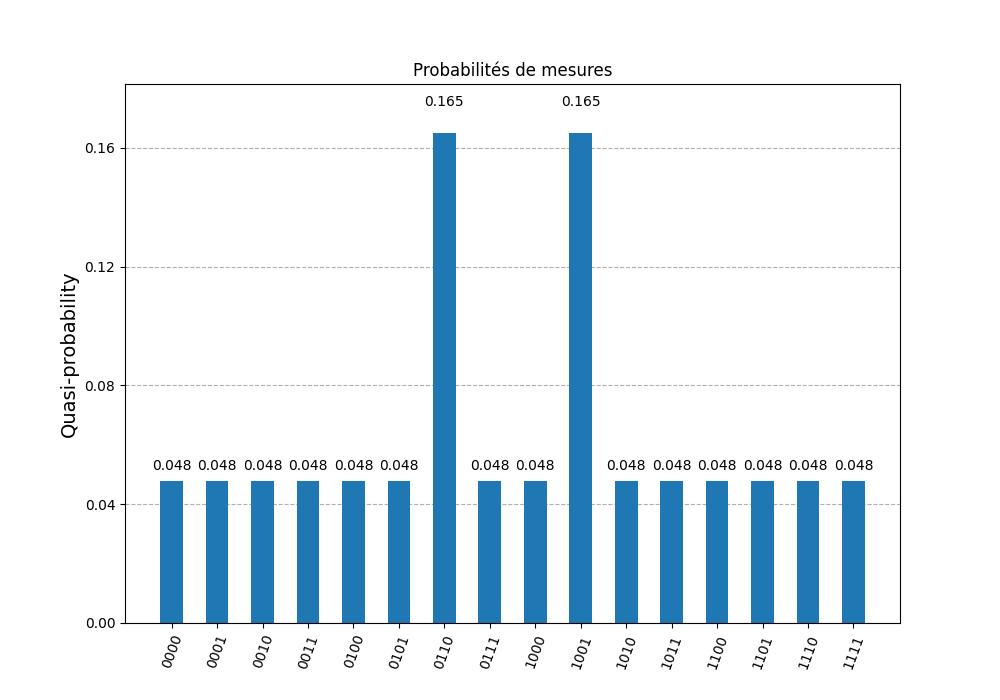
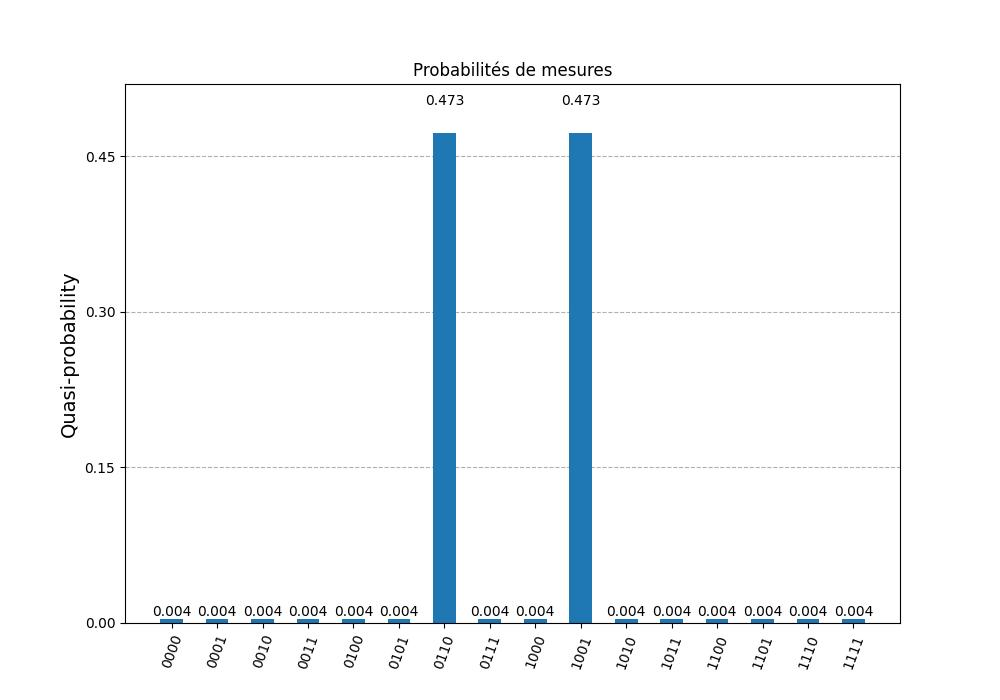
fixed bunch of stuff

diff --git a/sudoku_nxn.py b/sudoku_nxn.py
@@ -30,27 +30,29 @@ def draw_histogram(qc: QuantumCircuit, file_name):
     plot_histogram(probabilites, figsize=(10,7), title="Probabilités de mesures", filename=output_path)
     print("Un histogramme illustrant les probabilités de résultat à été généré à ", output_path)
 
-def calculer_prob_succes(k, theta):
-    prob_succes = np.abs(np.sin((2*k+1)*theta))**2
-    print(f"La probabilité de succès est de {prob_succes*100}%")
+def calculer_prob_succes(m, theta):
+    prob_succes = np.abs(np.sin((2*m+1)*theta))**2
+    print(f"La probabilité de succès est de {prob_succes:.4%}")
 
-def find_optimal_n_iterations(n):
+def find_optimal_n_iterations(n, m):
     # nous avons un sudoku nxn
     print(f"Pour un sudoku n={n} ({n}x{n})")
     
-    nbre_grilles_possibles = n**(n*n)
-    print(f"Il y a N={nbre_grilles_possibles} combinaisons possibles")
+    N = 2**(n*n)
+    print(f"Le nombre de combinaisons possibles est N={N}")
 
-    theta = np.arcsin(1/np.sqrt(nbre_grilles_possibles))
-    print(f"Nous avons un theta = {theta} rad")
+    print(f"Le nombre de solutions possibles est m={m}")
 
-    # On isole k dans la formule (2k+1)*theta = pi/2
-    k = (np.pi-2*theta)/(4*theta)
-    nbre_iterations = int(np.round(k))
+    theta = np.arcsin(np.sqrt(m/N))
+    print(f"Nous avons un theta={theta:.4}rad")
+
+    # pour trouver le nombre d'itérations k, on isole k dans (2k+1)*theta=pi/2
+    k = ((np.pi/2)-theta)/(2*theta)
     print(f"Ce qui nous donne un k={k}")
-    print(f"On arrondi k pour donner le nombre d'itérations = {nbre_iterations}")
+    k = int(np.round(k))
+    print(f"On arrondi k pour donner le nombre d'itérations k={k}")
 
-    return (nbre_iterations, k, theta)
+    return (k, theta)
 
 
 def compter_cnot(qc : QuantumCircuit):

diff --git a/sudoku_2x2.py b/sudoku_2x2.py
@@ -66,8 +66,8 @@ def grover(num_iterations) -> QuantumCircuit:
     qc.measure(v_qubits, measures)
     return qc
 
-num_iterations, k, theta = find_optimal_n_iterations(n=2)
-qc : QuantumCircuit = grover(num_iterations)
+k, theta = find_optimal_n_iterations(n=2, m=2)
+qc : QuantumCircuit = grover(k)
 calculer_prob_succes(k, theta)
 compter_cnot(qc)
 draw_circuit(qc, "circuit_grover_sudoku2x2.jpg")

diff --git a/sudoku_3x3.py b/sudoku_3x3.py
@@ -62,8 +62,8 @@ def grover(num_iterations) -> QuantumCircuit:
     qc.measure(v_qubits, measures)
     return qc
 
-num_iterations, k, theta = find_optimal_n_iterations(n=3)
-qc : QuantumCircuit = grover(num_iterations)
+k, theta = find_optimal_n_iterations(n=3, m=6)
+qc : QuantumCircuit = grover(k)
 calculer_prob_succes(k, theta)
 compter_cnot(qc)
 draw_circuit(qc, "circuit_grover_sudoku3x3.jpg")

diff --git a/rapport/q2b.md b/rapport/q2b.md
@@ -1,0 +1,144 @@
+<!-- Question 2 -->
+
+<!-- (b) Combien y a-t-il de solutions possibles ? -->
+
+Soit un sudoku binaire 3x3:
+<table>
+  <tr>
+    <td style="border: 1px solid #000; padding: 8px;">x<sub>0</sub></td>
+    <td style="border: 1px solid #000; padding: 8px;">x<sub>1</sub></td>
+    <td style="border: 1px solid #000; padding: 8px;">x<sub>2</sub></td>
+  </tr>
+  <tr>
+    <td style="border: 1px solid #000; padding: 8px;">x<sub>3</sub></td>
+    <td style="border: 1px solid #000; padding: 8px;">x<sub>4</sub></td>
+    <td style="border: 1px solid #000; padding: 8px;">x<sub>5</sub></td>
+  </tr>
+  <tr>
+    <td style="border: 1px solid #000; padding: 8px;">x<sub>6</sub></td>
+    <td style="border: 1px solid #000; padding: 8px;">x<sub>7</sub></td>
+    <td style="border: 1px solid #000; padding: 8px;">x<sub>8</sub></td>
+  </tr>
+</table>
+
+Il y a une contrainte par ligne<br>
+Il y a une contrainte par colonne<br>
+Il y a donc 6 contraintes<br>
+
+Voici les 6 solutions possibles:
+
+<div style="display:flex; justify-content: space-between;">
+  <table>
+    <tr>
+      <td style="border: 1px solid #000; padding: 8px;">1</td>
+      <td style="border: 1px solid #000; padding: 8px;">0</td>
+      <td style="border: 1px solid #000; padding: 8px;">0</td>
+    </tr>
+    <tr>
+      <td style="border: 1px solid #000; padding: 8px;">0</td>
+      <td style="border: 1px solid #000; padding: 8px;">1</td>
+      <td style="border: 1px solid #000; padding: 8px;">0</td>
+    </tr>
+    <tr>
+      <td style="border: 1px solid #000; padding: 8px;">0</td>
+      <td style="border: 1px solid #000; padding: 8px;">0</td>
+      <td style="border: 1px solid #000; padding: 8px;">1</td>
+    </tr>
+    <tr><td colspan="3">|100010001></td></tr>
+  </table>
+
+  <table>
+    <tr>
+      <td style="border: 1px solid #000; padding: 8px;">1</td>
+      <td style="border: 1px solid #000; padding: 8px;">0</td>
+      <td style="border: 1px solid #000; padding: 8px;">0</td>
+    </tr>
+    <tr>
+      <td style="border: 1px solid #000; padding: 8px;">0</td>
+      <td style="border: 1px solid #000; padding: 8px;">0</td>
+      <td style="border: 1px solid #000; padding: 8px;">1</td>
+    </tr>
+    <tr>
+      <td style="border: 1px solid #000; padding: 8px;">0</td>
+      <td style="border: 1px solid #000; padding: 8px;">1</td>
+      <td style="border: 1px solid #000; padding: 8px;">0</td>
+    </tr>
+    <tr><td colspan="3">|100001010></td></tr>
+  </table>
+<table>
+  <tr>
+    <td style="border: 1px solid #000; padding: 8px;">0</td>
+    <td style="border: 1px solid #000; padding: 8px;">1</td>
+    <td style="border: 1px solid #000; padding: 8px;">0</td>
+  </tr>
+  <tr>
+    <td style="border: 1px solid #000; padding: 8px;">1</td>
+    <td style="border: 1px solid #000; padding: 8px;">0</td>
+    <td style="border: 1px solid #000; padding: 8px;">0</td>
+  </tr>
+  <tr>
+    <td style="border: 1px solid #000; padding: 8px;">0</td>
+    <td style="border: 1px solid #000; padding: 8px;">0</td>
+    <td style="border: 1px solid #000; padding: 8px;">1</td>
+  </tr>
+    <tr><td colspan="3">|010100001></td></tr>
+</table>
+
+<table>
+  <tr>
+    <td style="border: 1px solid #000; padding: 8px;">0</td>
+    <td style="border: 1px solid #000; padding: 8px;">1</td>
+    <td style="border: 1px solid #000; padding: 8px;">0</td>
+  </tr>
+  <tr>
+    <td style="border: 1px solid #000; padding: 8px;">0</td>
+    <td style="border: 1px solid #000; padding: 8px;">0</td>
+    <td style="border: 1px solid #000; padding: 8px;">1</td>
+  </tr>
+  <tr>
+    <td style="border: 1px solid #000; padding: 8px;">1</td>
+    <td style="border: 1px solid #000; padding: 8px;">0</td>
+    <td style="border: 1px solid #000; padding: 8px;">0</td>
+  </tr>
+  <tr><td colspan="3">|010001100></td></tr>
+</table>
+
+<table>
+  <tr>
+    <td style="border: 1px solid #000; padding: 8px;">0</td>
+    <td style="border: 1px solid #000; padding: 8px;">0</td>
+    <td style="border: 1px solid #000; padding: 8px;">1</td>
+  </tr>
+  <tr>
+    <td style="border: 1px solid #000; padding: 8px;">1</td>
+    <td style="border: 1px solid #000; padding: 8px;">0</td>
+    <td style="border: 1px solid #000; padding: 8px;">0</td>
+  </tr>
+  <tr>
+    <td style="border: 1px solid #000; padding: 8px;">0</td>
+    <td style="border: 1px solid #000; padding: 8px;">1</td>
+    <td style="border: 1px solid #000; padding: 8px;">0</td>
+  </tr>
+    <tr><td colspan="3">|001100010></td></tr>
+</table>
+
+<table>
+  <tr>
+    <td style="border: 1px solid #000; padding: 8px;">0</td>
+    <td style="border: 1px solid #000; padding: 8px;">0</td>
+    <td style="border: 1px solid #000; padding: 8px;">1</td>
+  </tr>
+  <tr>
+    <td style="border: 1px solid #000; padding: 8px;">0</td>
+    <td style="border: 1px solid #000; padding: 8px;">1</td>
+    <td style="border: 1px solid #000; padding: 8px;">0</td>
+  </tr>
+  <tr>
+    <td style="border: 1px solid #000; padding: 8px;">1</td>
+    <td style="border: 1px solid #000; padding: 8px;">0</td>
+    <td style="border: 1px solid #000; padding: 8px;">0</td>
+  </tr>
+  <tr><td colspan="3">|001010100></td></tr>
+</table>
+
+</div>
